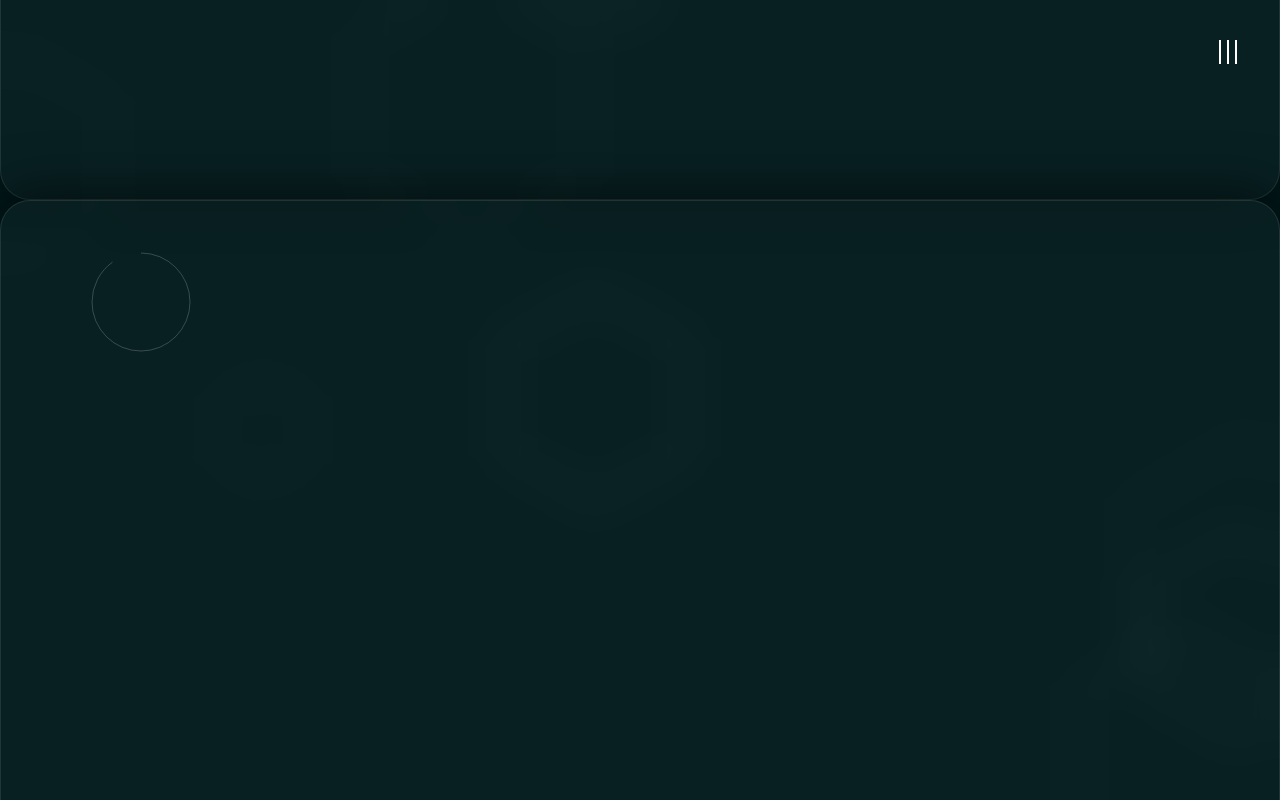
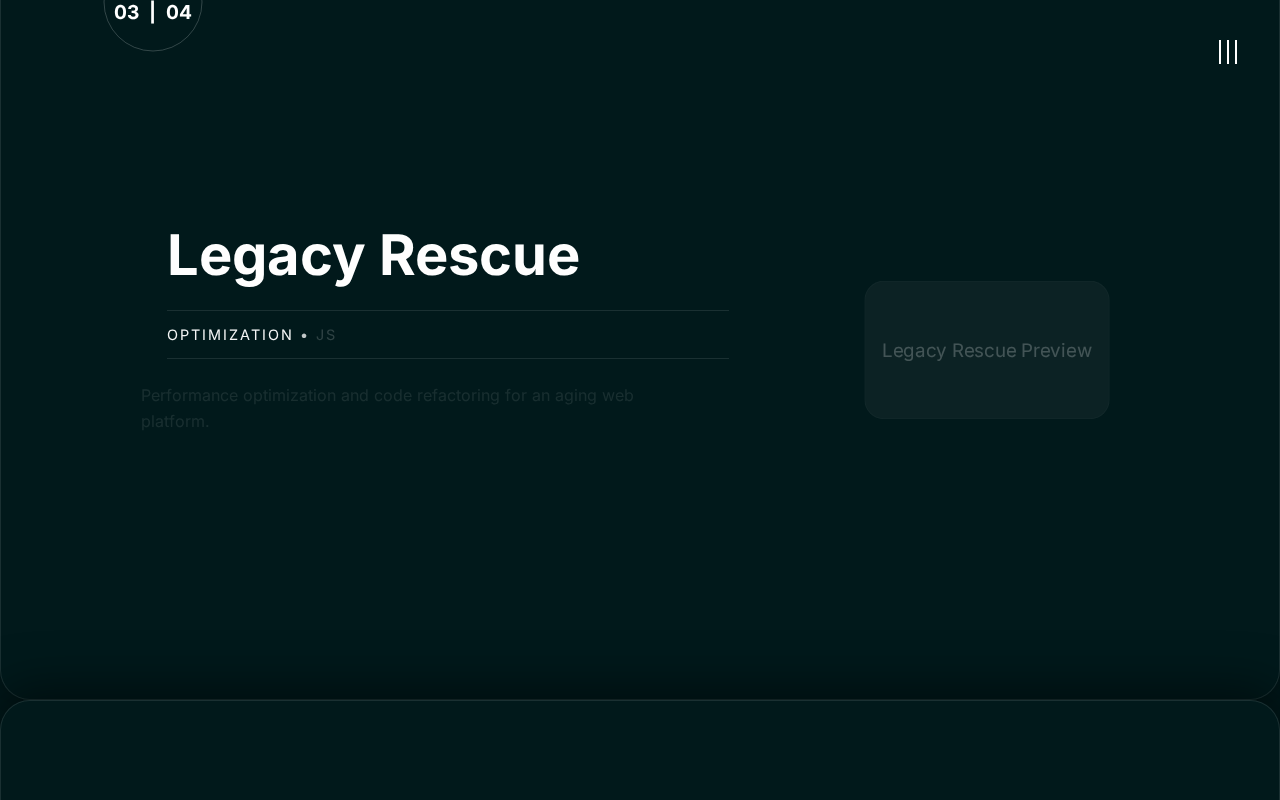
fix: enforce sticky stacking, resize grid, and standardize card styles
- Forced `.project-card` sticky stacking with 100vh height and opaque background.
- Dynamically injected `z-index` into generated project cards via `main.js`.
- Resized layout with a `1.8fr 1fr` ratio in `.card-content`.
- Aligned and resized the preview container to `80%` on the right side.
- Standardized `.project-title` to an `h2` element.
- Added 1fr vertical layout stacking for mobile devices.

diff --git a/main.js b/main.js
@@ -126,6 +126,7 @@ document.addEventListener("DOMContentLoaded", () => {
         glassCard.className = 'project-card glass-card';
         // Assign strictly increasing Z-Indices: Card 1: z-index: 1, Card 2: z-index: 2, etc.
         glassCard.style.zIndex = i + 1;
+        glassCard.setAttribute('style', `z-index: ${i + 1};`);
 
         // HTML for fixed elements
         // Circle circumference for r=49 is 2 * Math.PI * 49 = ~307.8
@@ -155,9 +156,9 @@ document.addEventListener("DOMContentLoaded", () => {
         let techStackHTML = proj.stack.split(' • ').map(tech => `<span class="tech-item" style="opacity: 0;">${tech}</span>`).join(' <span class="tech-bullet" style="opacity: 0;">•</span> ');
 
         let mainContentHTML = `
-          <div class="project-main-content">
+          <div class="card-content">
             <div class="project-info-side">
-              <h3 class="project-title" style="opacity: 0; transform: translateX(-50px);">${proj.title}</h3>
+              <h2 class="project-title" style="opacity: 0; transform: translateX(-50px);">${proj.title}</h2>
               <div class="tech-stack-container" style="position: relative;">
                 <div class="tech-line tech-line-top" style="position: absolute; top: 0; left: 0; height: 1px; width: 0%; background: rgba(255, 255, 255, 0.1);"></div>
                 <div class="tech-stack" style="border: none;">${techStackHTML}</div>
@@ -166,7 +167,7 @@ document.addEventListener("DOMContentLoaded", () => {
               <p class="project-description" style="opacity: 0; transform: translateX(-30px);">${proj.description}</p>
               <a href="${proj.link}" class="visit-site-link" style="opacity: 0; transform: translateY(20px);">(&nbsp;&nbsp;&nbsp;VISIT SITE &#x2197;&nbsp;&nbsp;&nbsp;)</a>
             </div>
-            <div class="project-preview" style="opacity: 0; transform: scale(0.95);">
+            <div class="project-preview-container" style="opacity: 0; transform: scale(0.95);">
                ${proj.image}
             </div>
           </div>
@@ -189,7 +190,7 @@ document.addEventListener("DOMContentLoaded", () => {
         const techItems = card.querySelectorAll('.tech-item, .tech-bullet');
         const desc = card.querySelector('.project-description');
         const link = card.querySelector('.visit-site-link');
-        const preview = card.querySelector('.project-preview');
+        const preview = card.querySelector('.project-preview-container');
 
         // Build Entrance Timeline
         const tl = gsap.timeline({

diff --git a/style.css b/style.css
@@ -34,10 +34,18 @@
     gap: 1.5rem;
   }
 
-  .project-preview {
+  .card-content {
+    display: grid;
+    grid-template-columns: 1fr;
+    gap: 2rem;
+    padding: 0 5vw;
+  }
+
+  .project-preview-container {
     width: 100%;
     display: block;
     visibility: visible;
+    justify-self: center;
   }
 }
 
@@ -339,7 +347,7 @@ body {
 }
 
 .project-card {
-  position: sticky;
+  position: sticky !important;
   top: 0;
   height: 100vh; /* Full viewport height to cover previous card */
   display: flex;
@@ -347,6 +355,7 @@ body {
   box-shadow: 0 -10px 50px rgba(0,0,0,0.5); /* Shadow to separate cards */
   width: 100%;
   margin-bottom: 0;
+  background: var(--col-primary); /* Needs opacity to cover the card below */
 }
 
 .project-card-inner {
@@ -432,7 +441,7 @@ body {
   padding-top: 1rem;
 }
 
-.project-main-content {
+.card-content {
   display: flex;
   flex-direction: column;
   height: 100%;
@@ -491,11 +500,12 @@ body {
   color: var(--col-accent);
 }
 
-.project-preview {
-  background: rgba(255, 255, 255, 0.05);
+.project-preview-container {
+  background: rgba(128, 128, 128, 0.2);
   border-radius: 20px;
   aspect-ratio: 16 / 9;
-  width: 100%;
+  width: 80%;
+  justify-self: end;
   border: 1px solid rgba(255, 255, 255, 0.05);
   box-shadow: none;
   display: flex;
@@ -634,11 +644,13 @@ body {
     margin-bottom: 0;
   }
 
-  .project-main-content {
+  .card-content {
     display: grid;
-    grid-template-columns: 1fr 1fr;
+    grid-template-columns: 1.8fr 1fr;
     gap: 4rem;
-    align-items: stretch;
+    padding: 0 5vw;
+    align-items: center;
+    height: 100%;
   }
 
   .project-info-side {
@@ -667,13 +679,14 @@ body {
     margin-bottom: 0;
   }
 
-  .project-preview {
-    width: 100%;
+  .project-preview-container {
+    width: 80%;
     height: auto;
     margin: 0;
     position: static;
     z-index: 0;
     border-radius: 20px;
+    justify-self: end;
   }
 }
 
